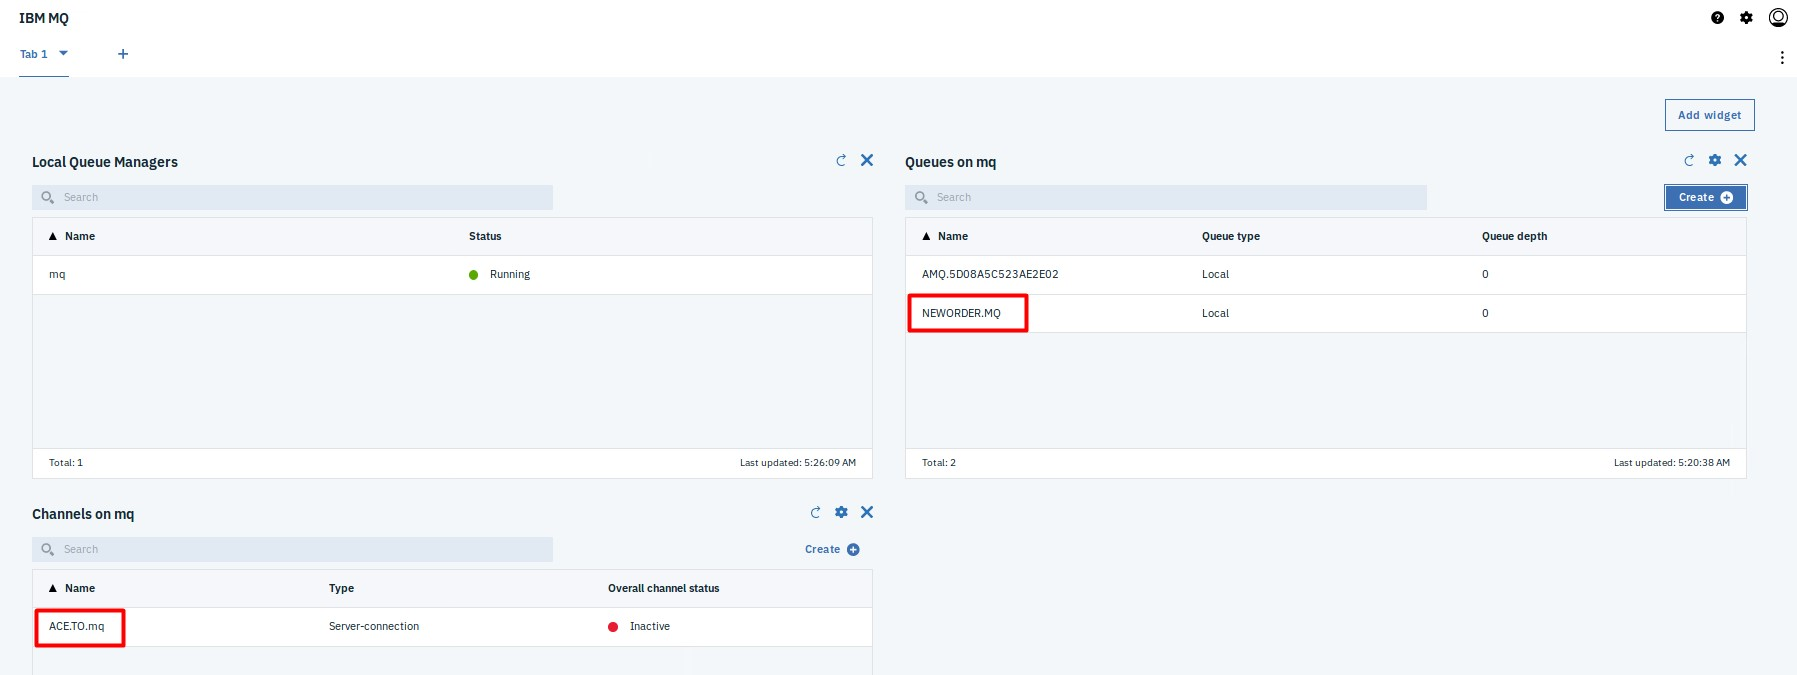
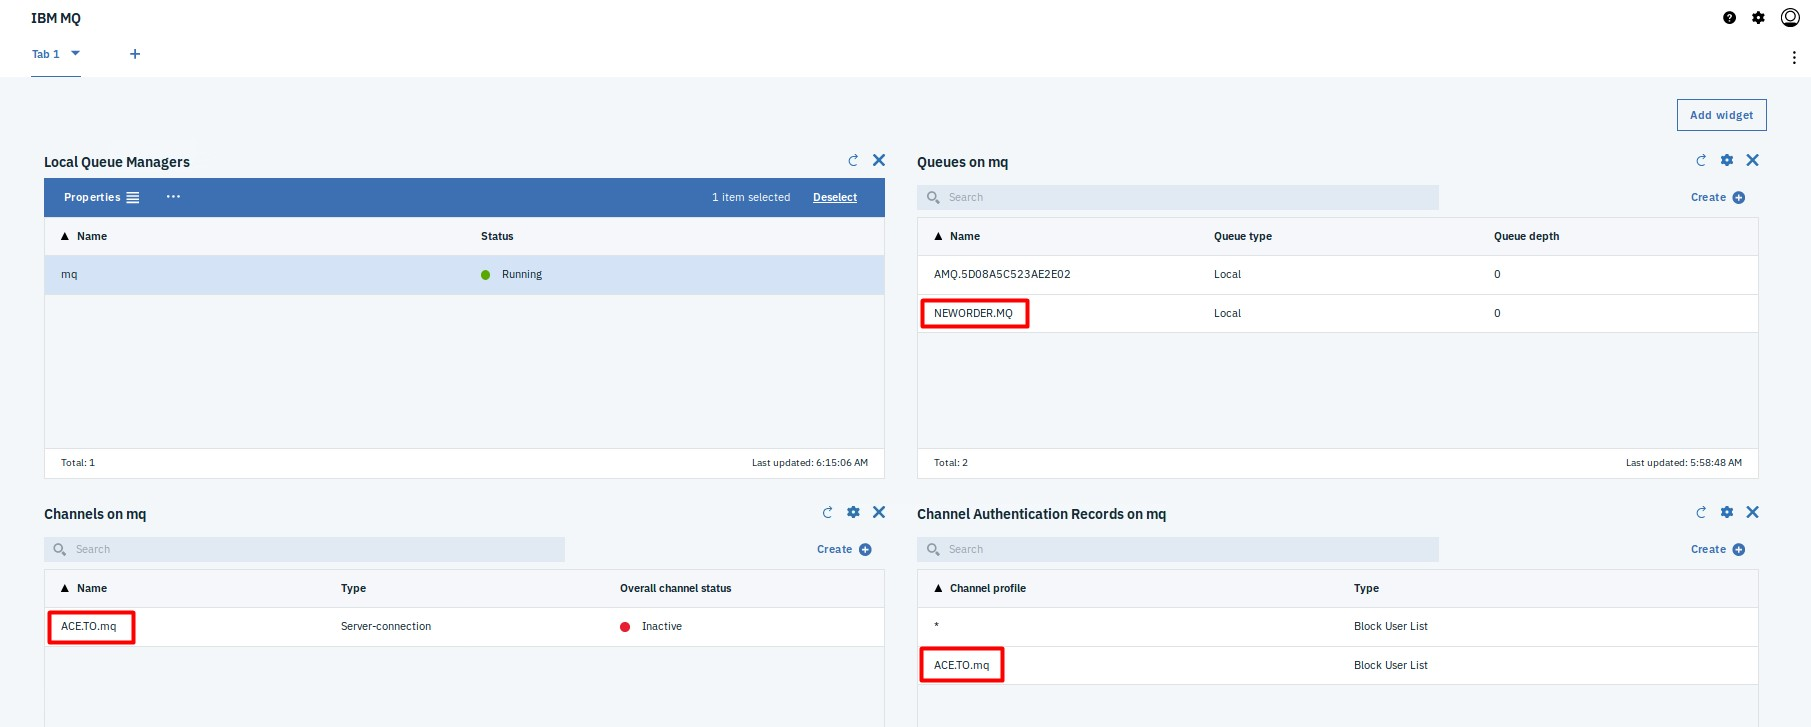
Hugh changes

diff --git a/pages/cipdemo/faststart_cip_lab.md b/pages/cipdemo/faststart_cip_lab.md
@@ -378,7 +378,7 @@ The remote Queue Manager has already been created and deployed, in its own Helm 
   - Point a browser session at the ICP Main Portal: `https://mycluster.icp:8443`, open `Workloads` -> `Helm releases`, find the Helm Release called `mq` and on the right `Launch` -> `console-https`.
   - Point a browser session at the ICP4I Platform Navigator: `https://mycluster.icp/integration`, and under `Messaging` select `mq`.
   - Point a browser session directly at the MQ Console: `https://mycluster.icp/integration/instance/mq`
-3. Click the Queue Manager name: `mq` to highlight it. (This is the name of the Queue Manager already created in this pod). Select `Properties`.
+3. Click the Queue Manager name `mq` to highlight it. (This is the name of the Queue Manager already created in this pod). Select `Properties`.
 
   ![](./images/cipdemo/ace-mq-properties.jpg)
 
@@ -392,8 +392,20 @@ You will now add a new queue and a new channel.
 
 5. At the top right, click `Add Widget`, then select your Queue Manager `mq` and select the `Queues` widget.
   -  In your new Queues widget, click on `Create (+)` to create a new queue called **NEWORDER.MQ**, of type  `local`.
-1. At the top right, click `Add Widget` again, then select your Queue Manager `mq` and select the `Channels` widget.
-  -  In your new Channels widget, click on `Create (+)` to create a new channel called **ACE.TO.mq**, of type `Server-connection`.
+	1. At the top right, click `Add Widget` again, then select your Queue Manager `mq` and select the `Channels` widget.
+	  -  In your new Channels widget, click on `Create (+)` to create a new channel called **ACE.TO.mq**, of type `Server-connection`.
+1. At the top right, click `Add Widget` again, then select your Queue Manager `mq` and select the `Channel Authenticaiton Records` widget.
+  -  In your new Channel Authentication Records widget, click on `Create (+)`.
+  -  Specify `Rule Type` = **Block**, and `Identity` = **Final assigned user ID** - click `Next`.
+  - Specify `Channel profile` = **ACE.TO.mq** (case-sensitive) and `User list` = **nobody** - click `Next`.
+  - Leave the `Description` and `Custom` fields blank - click `Create`.
+  - What you have just created will block user **nobody** from this channel, thus allowing all other users to use this channel. For this lab session it makes for an easy connection; in a Production environment more strict security should be applied.
+1. At the top right, click `Add Widget` again, then select your Queue Manager `mq` and select the `Authentication Information` widget.
+  -  In your new  Authentication Information widget, click on the cogwheel to configure the widget, and select `System objects` -> `Show`.
+	![](./images/cipdemo/ace-authinfo-cogwheel.jpg)
+  - Click the system-provided Authinfo called `SYSTEM.DEFAULT.AUTHINFO.IDPWOS` and then click `Properties`.
+  - On the `User ID + password` tab, for `Client connections` specify **Optional**.
+  - Don't forget to `Save` and then `Close`.
 1. Your MQ Console should now show your new widgets and your new artefacts, thus:
 
   ![](./images/cipdemo/ace-mq-console-details.jpg)
@@ -418,8 +430,7 @@ You will now manually run some MQSC commands, to complete the configuration of t
 	- Within the bash shell, create **aceuser** as part of the **mqm** group:
  	- `sudo useradd -m aceuser`
  	- `sudo usermod -a -G mqm aceuser`
-	- Execute `runmqsc mq` to open the interactive MQ Command line environment.
- 	- Type `SET CHLAUTH(ACE.TO.mq) TYPE(BLOCKUSER) ACTION(REPLACE) USERLIST('nobody') ` - this will block user **nobody** from this channel, and allow all other users to use this channel. For this lab session it makes for an easy connection; in a Production environment more strict security should be applied.
+	- Execute `runmqsc mq` to open the interactive MQ Command line environment. Then, on that MQ command line, run the following:
  	- Type `ALTER AUTHINFO(SYSTEM.DEFAULT.AUTHINFO.IDPWOS) AUTHTYPE(IDPWOS) CHCKCLNT(OPTIONAL)` - this uses the local operating system to authenticate the user ID, but also makes checking of the client optional. For this lab session it makes for an easy connection; in a Production environment more strict security should be applied.
  	- Type `ALTER QMGR CHLAUTH(DISABLED)`
  	- Type `REFRESH SECURITY`
